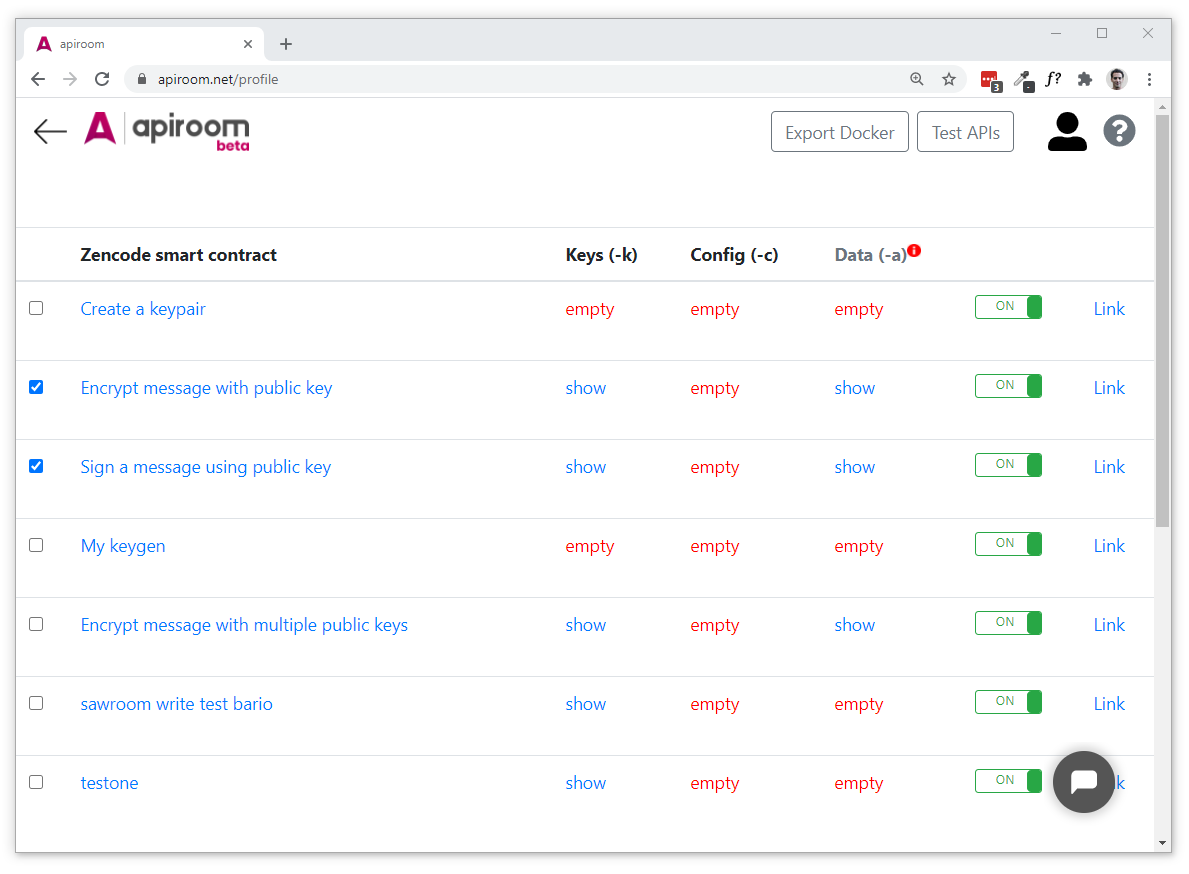
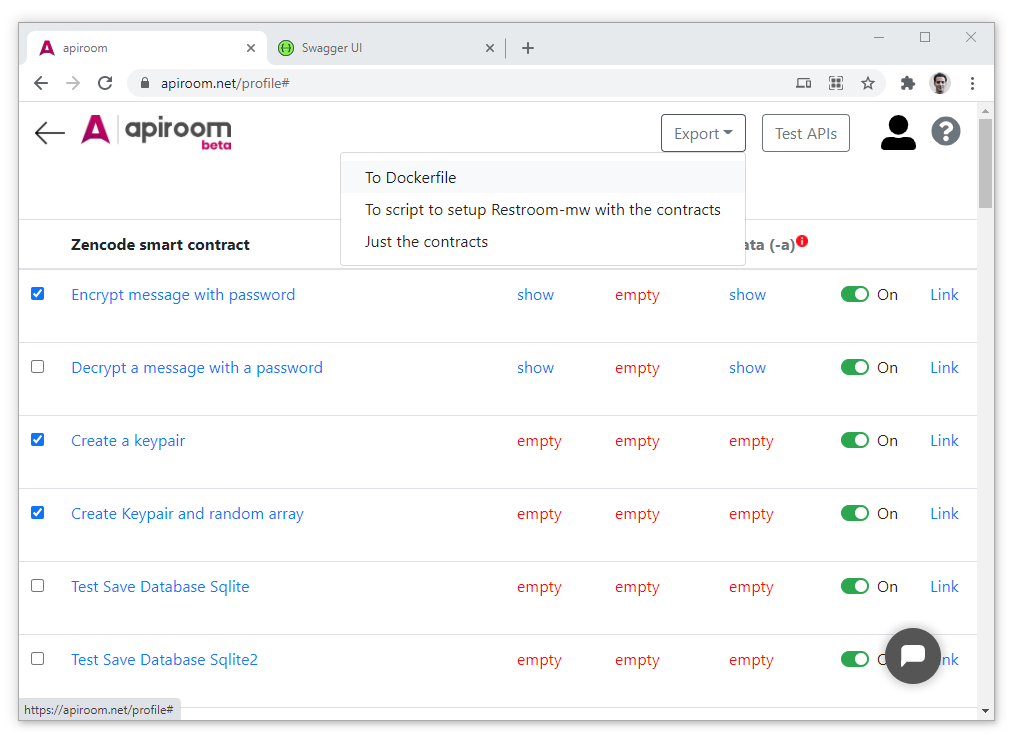
updated Apiroom manual with the new exports

diff --git a/docs/pages/apiroom.md b/docs/pages/apiroom.md
@@ -183,9 +183,20 @@ If you master *curl* and some shell scripting, you will easily be able to create
 You can obviously also use the APIs exposed in Apiroom in your web/mobile application, by using the **POST** call that we have just tested in *curl* 
 
 
+# Export APIs 
+
+After you're happy with the APIs you've prototyped and you're ready for a real deployment, in the back-end of Apiroom you can **select some smart contracts and export them** to:
+
+- A **Dockerfile** 
+- A shell script that will **install RESTroom-mw and the APIs**
+- Just download **smart contracts**, which you can use in Zenroom or RESTroom-mw, along with the keys and data you have saved
+ 
+
+![ApiroomShots](../_media/images/apiroom/ApiroomExportToDocker.png)
+
 ## Export APIs to Dockerfile
 
-After you're happy with the APIs you've prototyped and you're ready for a real deployment, in the back-end of Apiroom you can create a **Dockerfile** that will:
+You can export your APIs to a **Dockerfile** that will:
  
  - Create a Docker image 
  - Clone and configure [RESTroom-mw](https://dyne.github.io/restroom-mw/#/) 
@@ -193,7 +204,6 @@ After you're happy with the APIs you've prototyped and you're ready for a real d
 
 To create the **Dockerfile**, select the contracts you want have running in the microservice then clic on "Export Docker"
 
-![ApiroomShots](../_media/images/apiroom/ApiroomExportToDocker.png)
 
 ### Docker image configuration
 
@@ -237,7 +247,16 @@ If everything worked fine, by going to **http://localhost:3300/docs** you should
 
 ![ApiroomShots](../_media/images/apiroom/RestroommwSwagger.png)
 
+## Export APIs to a RESTroom-mw instance
 
+If you select the Export -> **script to setup...**, Apiroom will generate a shell script, that will:
+
+- Install **RESTroom-mw**
+- Copy a default **.env file** in the RESTroom-mw instance
+- Copy the **smart contracts/APIs** in the RESTroom-mw instance
+- Give you instructions on **how to build and launch** RESTroom-mw 
+
+You want to use this option if you want to have the APIs on a non-containerized server. 
 
 
 <!-- WIP 
